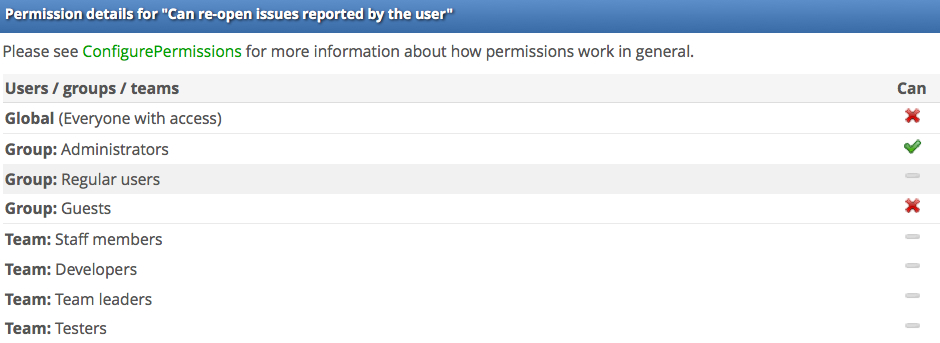
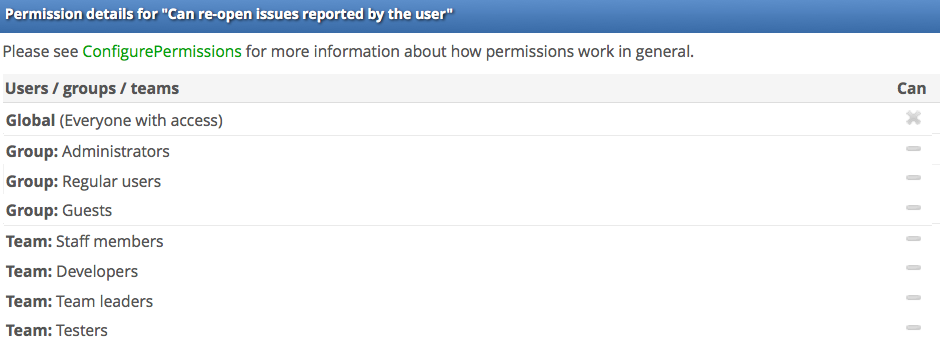
Update screenshots

diff --git a/TGBpermissions.md b/TGBpermissions.md
@@ -1,4 +1,5 @@
 http://www.thebuggenie.com/features
+Default for 3.2.7.1.  Older versions default √ (checks) and x's differ from newer releases.
 1. [DEFAULT] Can search for issues and create saved searches
 ![alt 1 Can search for issues and create saved searches](https://raw.githubusercontent.com/HelpGiveThanks/HGTconfiguration/master/images/1%20Can%20search%20for%20issues%20and%20create%20saved%20searches.png)
 
@@ -23,7 +24,7 @@ http://www.thebuggenie.com/features
 1. [DEFAULT] Can toggle issue access between restricted and public
 ![alt 6 Can toggle issue access between restricted and public ](https://raw.githubusercontent.com/HelpGiveThanks/HGTconfiguration/master/images/6 Can toggle issue access between restricted and public.png)
 
-1. [changed] Can create issues, edit basic information on issues reported by the user and close/re-open them
+1. [DEFAULT] Can create issues, edit basic information on issues reported by the user and close/re-open them
 ![alt 7 Can create issues, edit basic information on issues reported by the user and close:re-open them ](https://raw.githubusercontent.com/HelpGiveThanks/HGTconfiguration/master/images/7 Can create issues, edit basic information on issues reported by the user and close:re-open them.png)
 
    1. [DEFAULT] 7a Can create new issues
@@ -38,16 +39,16 @@ http://www.thebuggenie.com/features
       1. [DEFAULT] 7b2 Can edit issue description on issues reported by the user
 ![alt 7b2 Can edit issue description on issues reported by the user ](https://raw.githubusercontent.com/HelpGiveThanks/HGTconfiguration/master/images/7b2 Can edit issue description on issues reported by the user.png)
 
-      1. [changed] 7b3 Can edit steps to reproduce on issues reported by the user
+      1. [DEFAULT] 7b3 Can edit steps to reproduce on issues reported by the user
 ![alt 7b3 Can edit steps to reproduce on issues reported by the user ](https://raw.githubusercontent.com/HelpGiveThanks/HGTconfiguration/master/images/7b3 Can edit steps to reproduce on issues reported by the user.png)
 
-   1. [changed] 7c Can close and reopen issues reported by the user
+   1. [DEFAULT] 7c Can close and reopen issues reported by the user
 ![alt 7c Can close and reopen issues reported by the user ](https://raw.githubusercontent.com/HelpGiveThanks/HGTconfiguration/master/images/7c Can close and reopen issues reported by the user.png)
 
-      1. 7c1 Can close issues reported by the user
+      1. [DEFAULT] 7c1 Can close issues reported by the user
 ![alt 7c1 Can close issues reported by the user ](https://raw.githubusercontent.com/HelpGiveThanks/HGTconfiguration/master/images/7c1 Can close issues reported by the user.png)
 
-      1.  7c2 Can re-open issues reported by the user
+      1.  [DEFAULT] 7c2 Can re-open issues reported by the user
 ![alt 7c2 Can re-open issues reported by the user ](https://raw.githubusercontent.com/HelpGiveThanks/HGTconfiguration/master/images/7c2 Can re-open issues reported by the user.png)
 
 1. Can delete, close, reopen and update any issue details and progress
